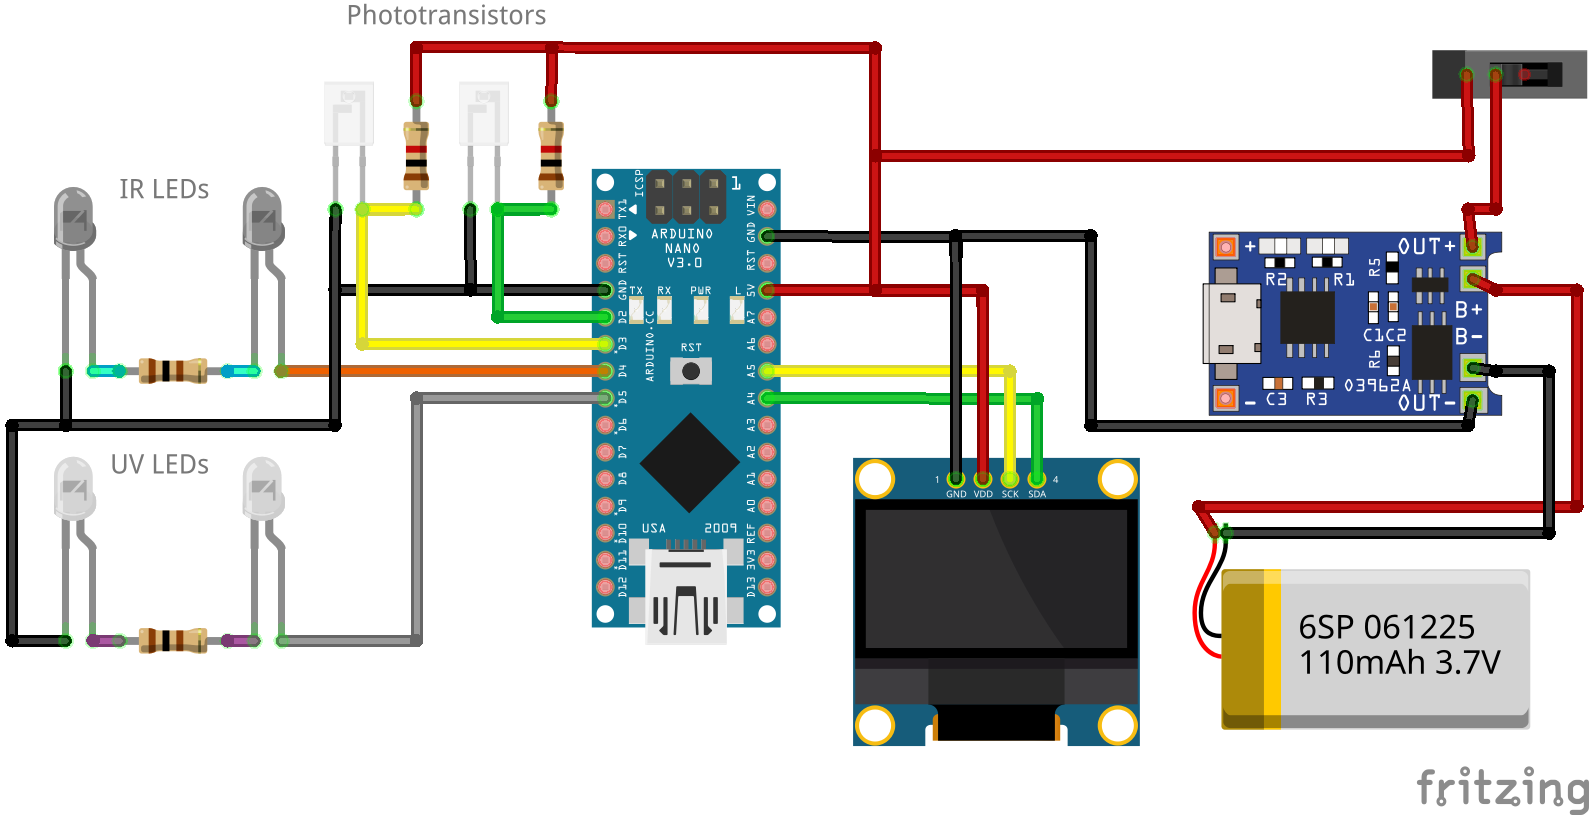
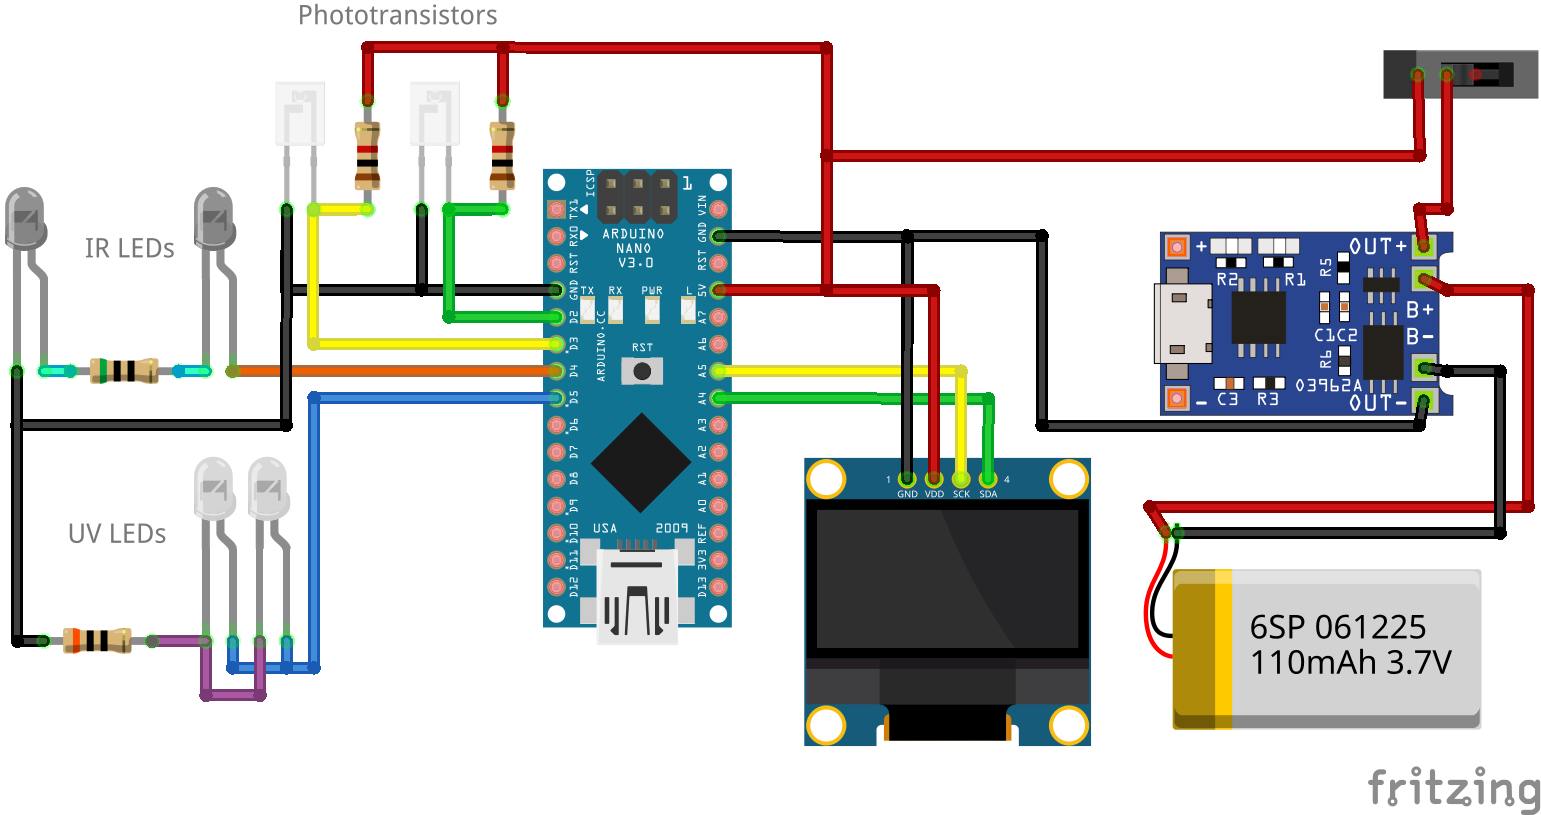
update openchrono uv option

diff --git a/input/projects/openchrono.md b/input/projects/openchrono.md
@@ -4,6 +4,7 @@ parent: projects
 git: https://git.xythobuz.de/thomas/OpenChrono
 github: https://github.com/xythobuz/OpenChrono
 date: 2022-06-26
+update: 2022-06-29
 comments: true
 ---
 
@@ -229,7 +230,7 @@ For the UV tracer option you also need the following parts.
 tableHelper([ "align-right", "align-right", "align-right monospaced", "align-left" ],
     [ "Description", "Type", "Count", "Link" ], [
         [ "UV LED 3mm", "", "2x", "<a href=\"https://www.ebay.de/itm/373071970513\">eBay.de</a>" ],
-        [ "Resistor", "50Ω", "1x", "<a href=\"https://www.ebay.de/itm/372813822157?var=642490601730\">eBay.de</a>" ],
+        [ "Resistor", "30Ω", "1x", "<a href=\"https://www.ebay.de/itm/372813822157?var=642490601725\">eBay.de</a>" ],
     ]
 )
 %-->
@@ -242,6 +243,8 @@ For LiPo battery use, also print the `lipo_lid`.
 Then select the proper threaded adapter for your gun.
 You will most likely need to print either `thread_profile_m14_cw` or `thread_profile_m14_ccw` for standard 14mm diameter, 1mm pitch threads.
 Other thread profiles can be added easily.
+
+If you don't need to customize anything you can also get pre-rendered STL files from [Printables](https://www.printables.com/model/232238-openchrono-airsoft-chronograph-and-tracer) or [Thingiverse](https://www.thingiverse.com/thing:5419855).
 
 Print the parts, remove supports and do some sanding as needed.
 Then put in the heat-melt inserts.
